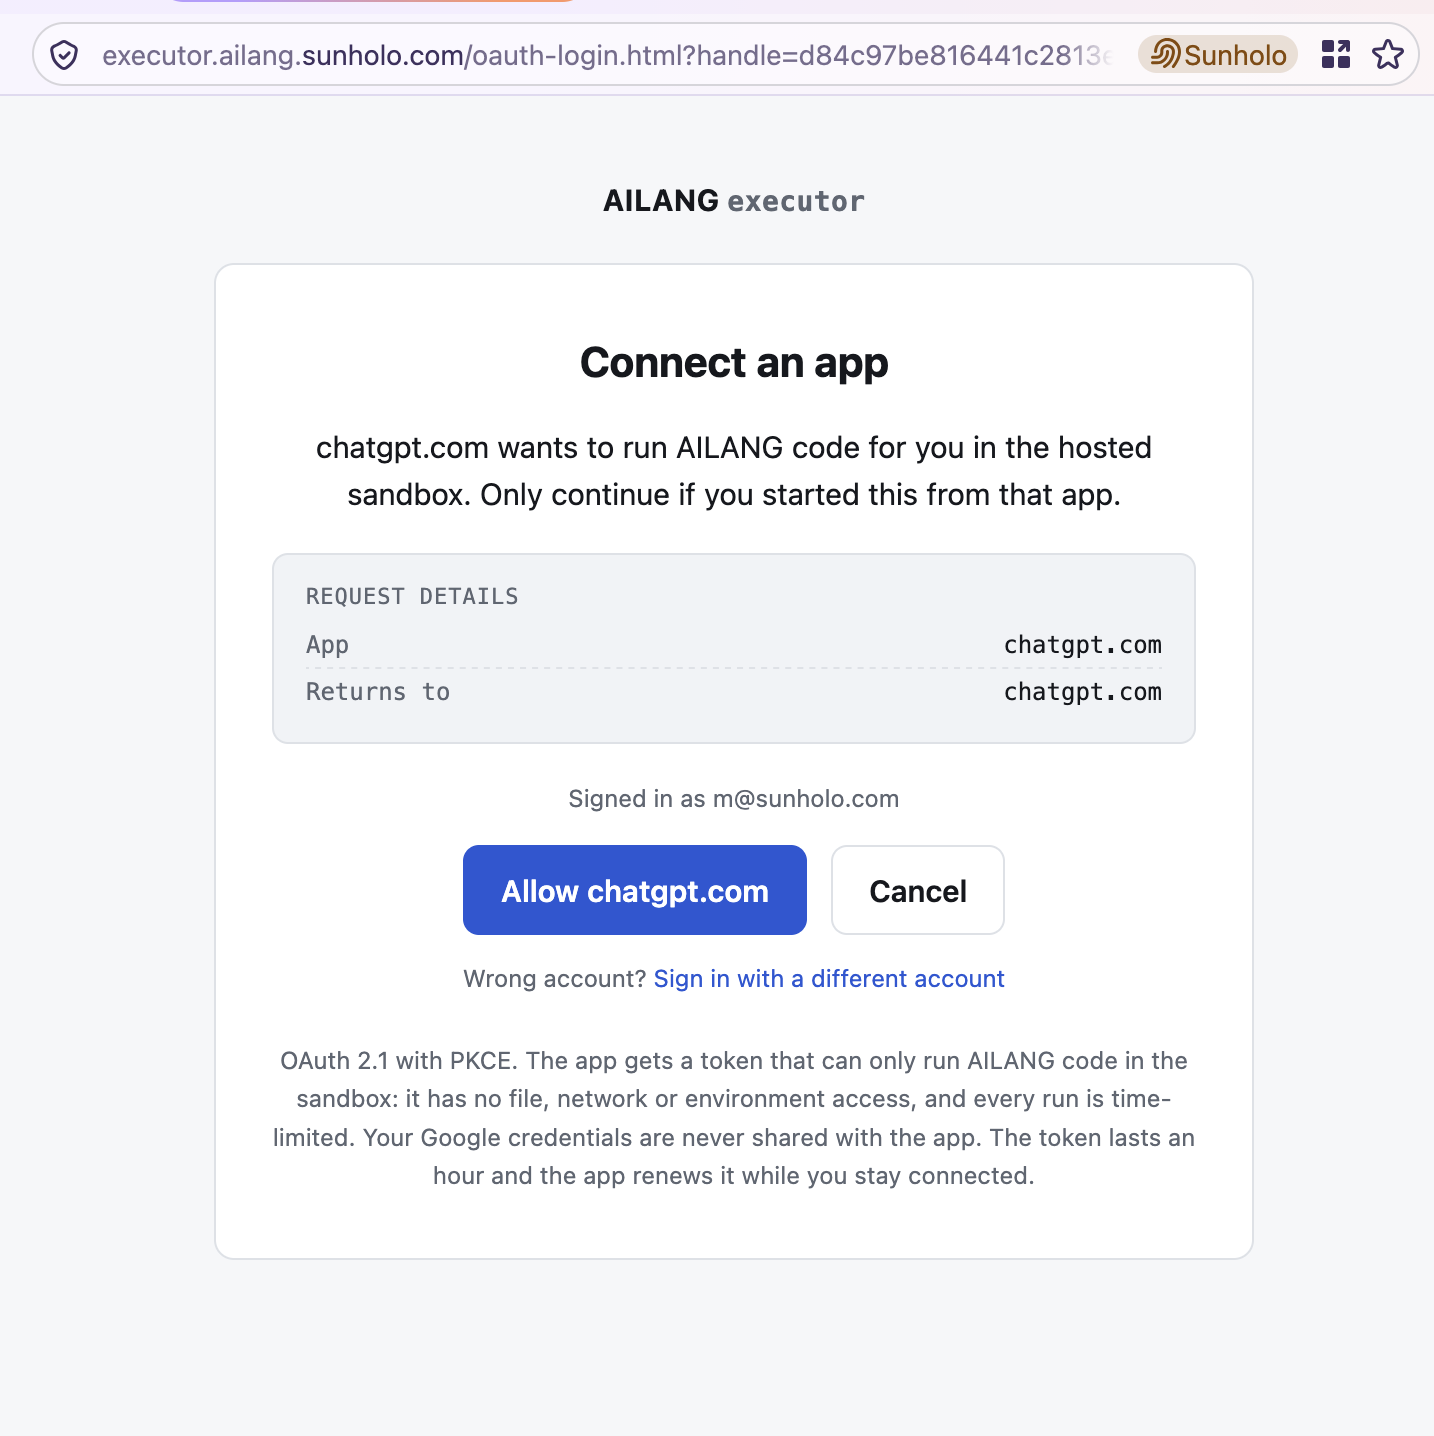
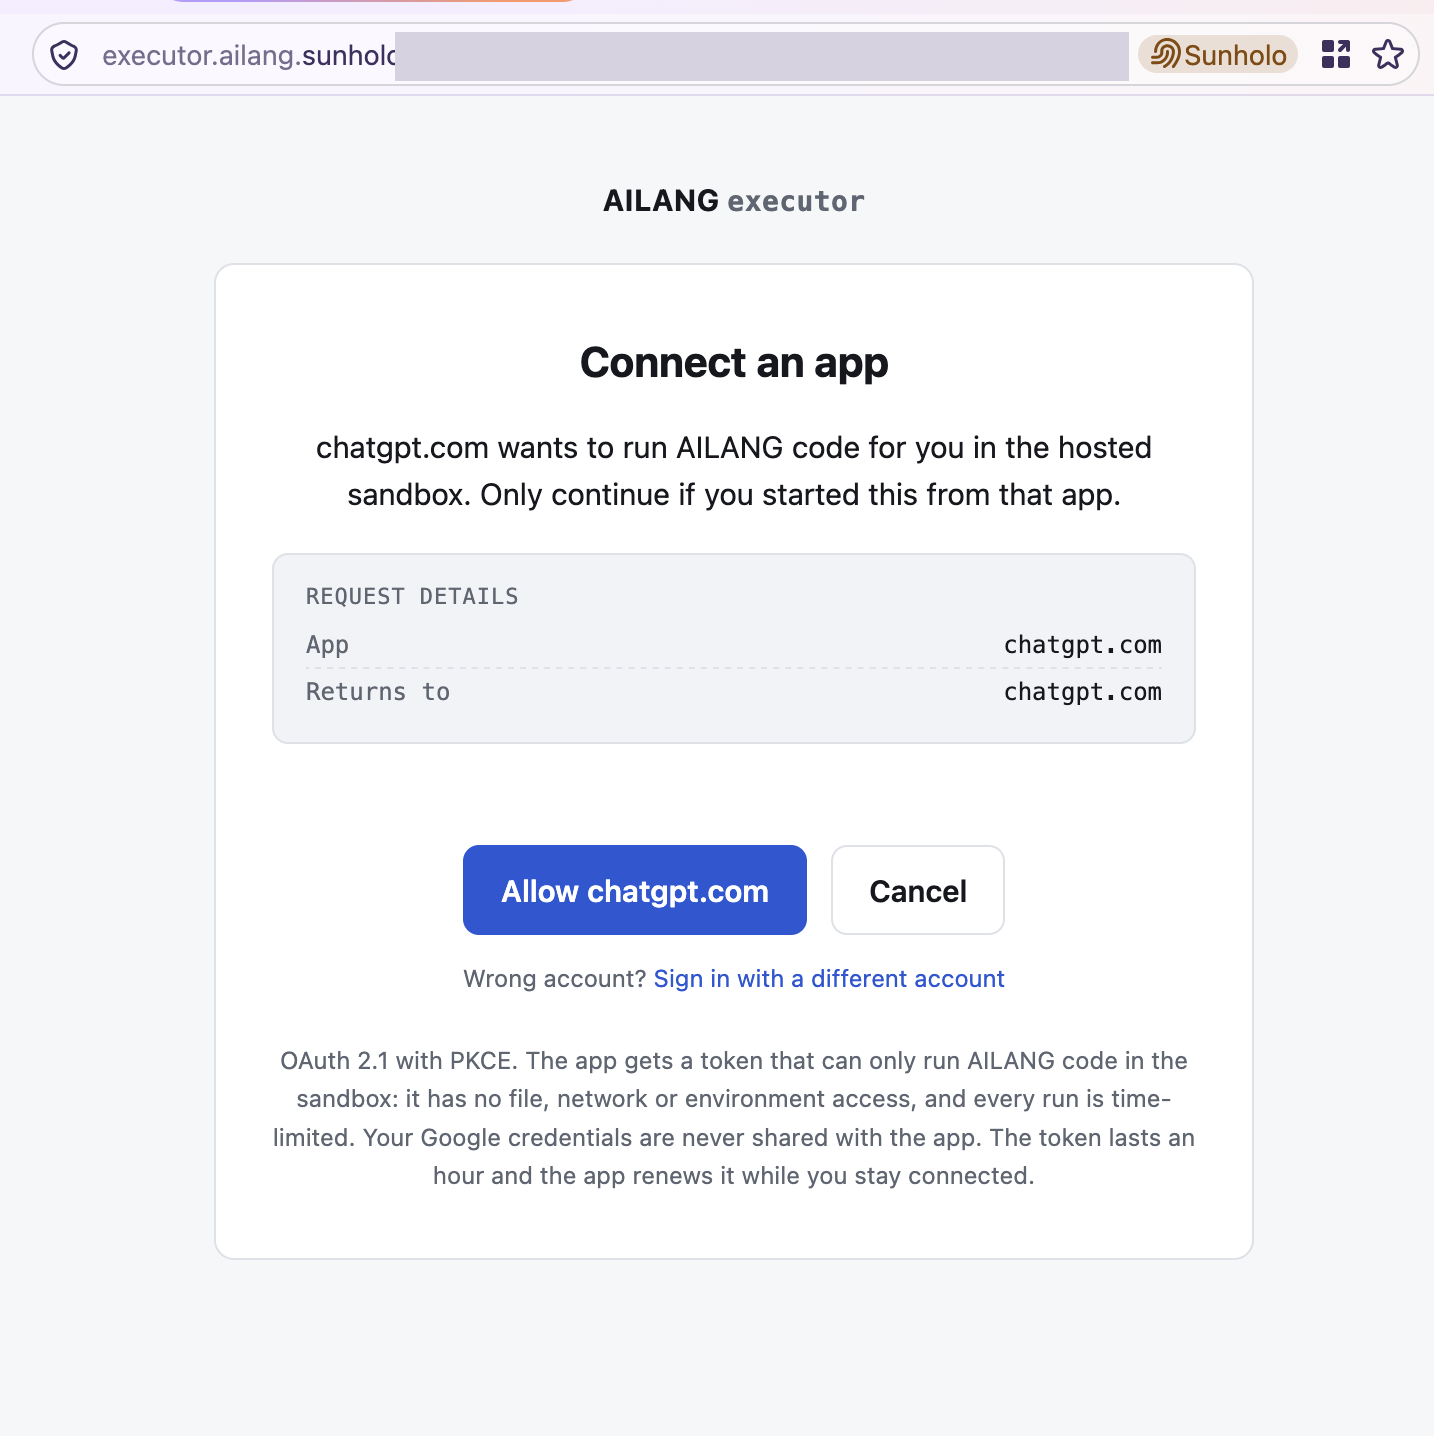
docs(connectors): claude.ai + ChatGPT (web) walkthroughs with screenshots; redact email/handle; drop the desktop set
claude.ai (add connector, auth settings, consent, tool permissions) and chatgpt.com (create plugin,
connect, executor consent, Fibonacci run) in the hosted-executor page and the connector guide.
Signed-in email and the sign-in handle painted out; other personal plugins hidden. The ChatGPT
desktop screenshots are removed: that route (Work mode) did not pass its token on 2026-11-11, and
two of them showed the email and a (redeemed) callback code.

Changed region(s): [[0.2762, 0.0, 0.7978, 0.0613], [0.3989, 0.5515, 0.6137, 0.5822]]

diff --git a/docs/docs/guides/hosted-executor.md b/docs/docs/guides/hosted-executor.md
@@ -61,11 +61,26 @@ request directory removed. **The code itself is never logged.**
 
 ## Add it to your assistant
 
-**Claude (claude.ai, desktop, mobile).** Settings → Connectors → **Add custom connector**, and paste
-the URL above. Choose **"Sign in when needed"** and **"Use Claude's published identity (CIMD)"**:
-there is no client ID or secret to enter. The first tool call opens the Google sign-in.
+### Claude (claude.ai, desktop, mobile)
 
-**Claude Code.**
+Verified 2026-11-11.
+
+1. Settings → **Connectors** → **Add** → **Add custom connector**, give it a name and paste the URL
+   above.
+
+   ![The Connectors list with Add custom connector open](/img/connectors/claude-ai-01-add-custom-connector.png)
+
+2. Authentication: **Sign in when needed**. OAuth client: **Use Claude's published identity
+   (CIMD)**. There is no client ID or secret to enter.
+
+   ![Add custom connector: Sign in when needed, and Claude's published identity](/img/connectors/claude-ai-02-connector-auth-settings.png)
+
+3. The first tool call opens the executor's sign-in page: sign in with Google and **Allow**. Every
+   tool is read-only, so **Always allow** under Tool permissions is safe.
+
+   ![Tool permissions for the executor connector: 28 read-only tools](/img/connectors/claude-ai-04-tool-permissions.png)
+
+### Claude Code
 
 ```bash
 claude mcp add --transport http ailang-executor https://executor.ailang.sunholo.com/mcp/connect/
@@ -73,25 +88,42 @@ claude mcp add --transport http ailang-executor https://executor.ailang.sunholo.
 
 Then run `/mcp` in a session and choose the server to sign in.
 
-**ChatGPT.** ChatGPT calls these **plugins**. Verified 2026-11-11: sign-in and tool calls from an
+### ChatGPT
+
+ChatGPT calls these **plugins**. Verified 2026-11-11 on chatgpt.com: sign-in and tool calls from an
 ordinary chat.
 
-1. On **chatgpt.com**, open **Plugins** → **Add** → **Add custom MCP server**.
-2. Name it (for example `AILANG Executor`), choose **Server URL**, and paste the URL above.
-3. **Authentication: OAuth.** Every executor tool except `submit_feedback` needs sign-in. Under
-   **Advanced OAuth settings**, choose the client metadata document (CIMD) as the client setup
-   method; the executor does not offer dynamic registration.
-4. Accept the custom-server warning, create it, and sign in with Google when ChatGPT asks.
+1. On **chatgpt.com**, open **Plugins** → **Add** → **Add custom MCP server**. Name it, choose
+   **Server URL** and paste the URL above. **Authentication: OAuth**: every executor tool except
+   `submit_feedback` needs sign-in. Under **Advanced OAuth settings**, leave the client setup method
+   on the client metadata document (CIMD); the executor does not offer dynamic registration. Tick
+   "I understand and want to continue" and **Create as a plugin**.
+
+   ![Add custom MCP server on chatgpt.com, filled in for the executor](/img/connectors/chatgpt-web-01-create-plugin.png)
+
+2. **Connect** it.
+
+   ![Connect the plugin](/img/connectors/chatgpt-web-02-connect-plugin.png)
+
+3. The executor's own page asks you to sign in with Google and allow chatgpt.com. It shows which
+   app is asking and where the code goes.
+
+   ![The executor's consent page: chatgpt.com wants to run AILANG code in the hosted sandbox](/img/connectors/chatgpt-web-03-oauth-allow.png)
+
+4. The plugin is listed under **Personal**, and an ordinary chat can use it:
+
+   ![A chat that wrote and ran an AILANG Fibonacci program through the executor](/img/connectors/chatgpt-web-05-fibonacci-run.png)
 
 ChatGPT identifies itself as `https://chatgpt.com/oauth/client.json` and returns to
 `https://chatgpt.com/connector_platform_oauth_redirect`; the executor returns `iss`, so there is
 nothing to register.
 
-**ChatGPT desktop app, Work mode.** The desktop app also takes the server under Settings → Plugins →
-**MCPs** (Add → Add MCP server, Streamable HTTP, no token). Its **Authenticate** button signs in
-(it chooses CIMD, `https://chatgpt.com/oauth/codex/client.json`), but on 2026-11-11 the process that
-runs Work tasks did not send the token it got, so tool calls were refused with 401. Ordinary chats do
-not see servers from this tab. Use chatgpt.com (above) until that is fixed on the app's side.
+**ChatGPT desktop app.** Use chatgpt.com for now. The desktop app's **MCPs** tab (Settings →
+Plugins → MCPs → Add MCP server) signs in, but on 2026-11-11 the process that runs **Work** tasks did
+not send the token it got, so tool calls were refused with 401, and ordinary chats do not see servers
+from that tab.
+
+### Others
 
 **Gemini Enterprise, Microsoft Copilot.** Not available yet for this server. Both need an OAuth
 client model (a pre-registered client or dynamic registration) that the executor has not switched

diff --git a/docs/docs/guides/mcp-connectors.md b/docs/docs/guides/mcp-connectors.md
@@ -451,9 +451,13 @@ your sign-in page, and reviewers read all three (see section 6).
    With or without the trailing slash both work from v0.52.3.
 3. In the connector's settings, choose **"Sign in when needed"** (lazy auth) and **"Use Claude's
    published identity (CIMD)"**. With CIMD there is no client ID or secret to enter.
+   ![claude.ai: Sign in when needed, and Claude's published identity (CIMD)](/img/connectors/claude-ai-02-connector-auth-settings.png)
+
 4. Ask for something an open tool answers. It should run without sign-in.
 5. Ask for something a gated tool answers. A **Connect** prompt appears. Sign in on your page, and
    the call completes.
+
+   ![AILANG Parse's sign-in page: claude.ai asks to use Parse on your behalf](/img/connectors/claude-ai-03-oauth-allow-parse.png)
 6. Run **every** tool once. Anthropic asks you to confirm this when you submit.
 
 If claude.ai says it "couldn't determine how this server signs in", run `mcp check` on the exact
@@ -462,9 +466,16 @@ that URL.
 
 ### Test it in ChatGPT
 
-ChatGPT calls these **plugins**. In the desktop app open Settings → Plugins → **Add** → **Add MCP
-server** and paste the `/mcp/connect/` URL; on the web, add it at `chatgpt.com/plugins`. (**Create
-plugin** in the same menu is the packaging route for the directory, §8.) Then repeat steps 4–6. ChatGPT
+ChatGPT calls these **plugins**. On **chatgpt.com**, open **Plugins** → **Add** → **Add custom MCP
+server**, paste the `/mcp/connect/` URL, and pick the authentication that matches the service:
+**OAuth** if every tool needs sign-in, **OAuth or no authentication** if some tools are open (lazy
+auth; declare `securitySchemes` per tool, §1). Leave the client setup method on CIMD. Then repeat
+steps 4–6. (The desktop app's MCPs tab is the Codex/Work side and did not pass its token to Work
+tasks on 2026-11-11; use the web.)
+
+![Add custom MCP server on chatgpt.com](/img/connectors/chatgpt-web-01-create-plugin.png)
+
+ ChatGPT
 registers itself through CIMD. Because `sunholo/mcp_oauth` returns `iss`, ChatGPT uses its stable
 redirect `https://chatgpt.com/connector_platform_oauth_redirect`. With CIMD, the allowed redirect
 URIs come from ChatGPT's own client metadata document, so you register nothing. Verified 2026-11-11 against the hosted executor: ChatGPT signed in as
